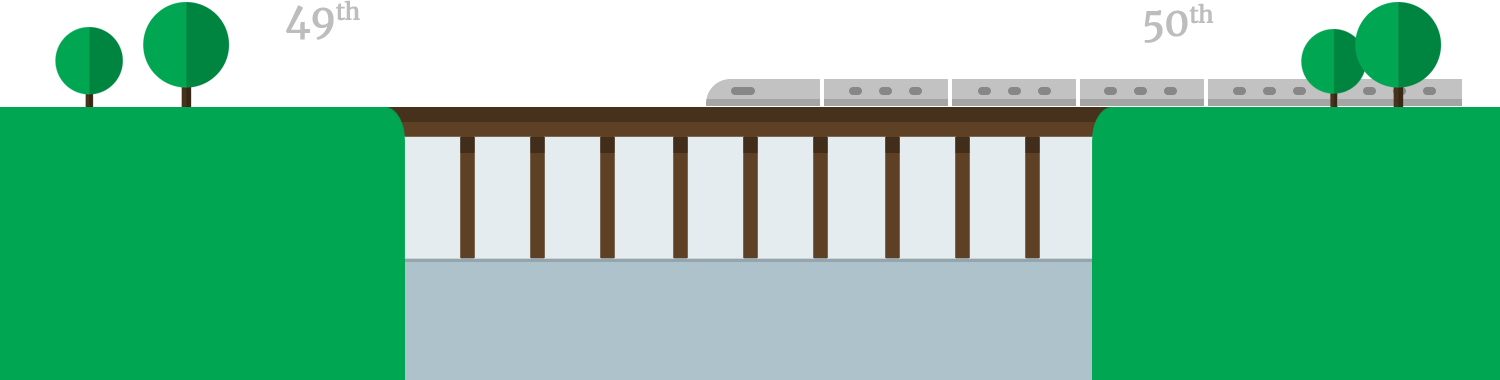
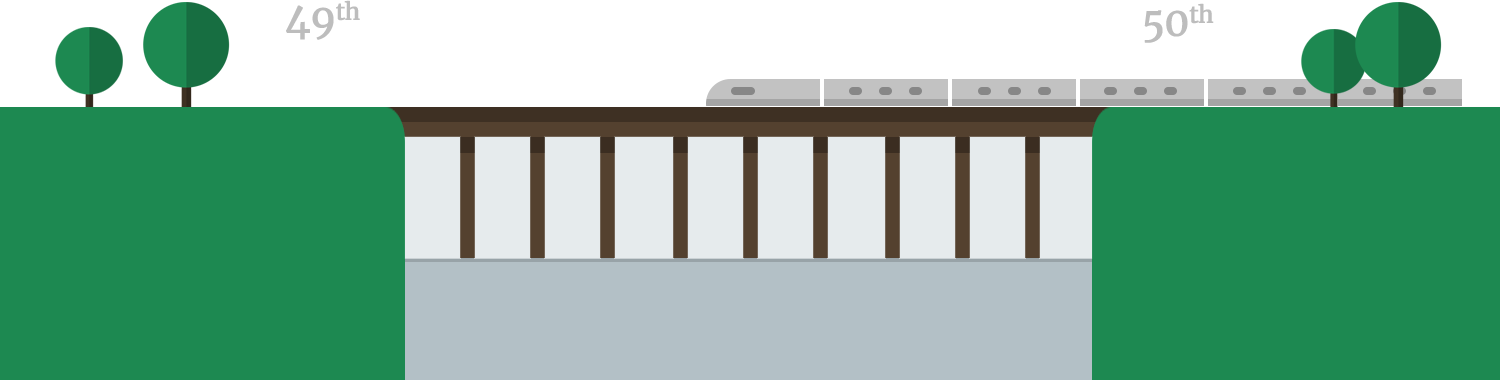
slightly desaturate the imagery

diff --git a/olpa-home-clouds/sass/_globals.scss b/olpa-home-clouds/sass/_globals.scss
@@ -408,7 +408,7 @@ HERO
 
 #dig-deep{
   position:relative;
-  background:#885e36;
+  background:#795e44;
   color:white;
   height:675px;
   h2{
@@ -445,7 +445,7 @@ HERO
 }
 #personal-income{
   padding:200px 0; 
-  background:#8097a1;
+  background:#b3c0c6;
   color:white;
   img{
     padding:60px 0 40px 0;
@@ -463,7 +463,7 @@ HERO
 }
 #bridge{
   position:relative;
-  padding:0; 
+  padding:0;
   > .container{
     position:relative;
     max-width:1500px;
@@ -482,7 +482,7 @@ HERO
     bottom:0;
     width:100%;
     height:273px;
-    background:#00a651;
+    background:#1d8951;
     z-index:10;
   }
 }

diff --git a/olpa-home-clouds/css/main.css b/olpa-home-clouds/css/main.css
@@ -395,7 +395,7 @@ HERO
 
 #dig-deep {
   position: relative;
-  background: #885e36;
+  background: #795e44;
   color: white;
   height: 675px; }
   #dig-deep h2 {
@@ -427,7 +427,7 @@ HERO
 
 #personal-income {
   padding: 200px 0;
-  background: #8097a1;
+  background: #b3c0c6;
   color: white; }
   #personal-income img {
     padding: 60px 0 40px 0; }
@@ -458,7 +458,7 @@ HERO
     bottom: 0;
     width: 100%;
     height: 273px;
-    background: #00a651;
+    background: #1d8951;
     z-index: 10; }
 
 #balloon {
